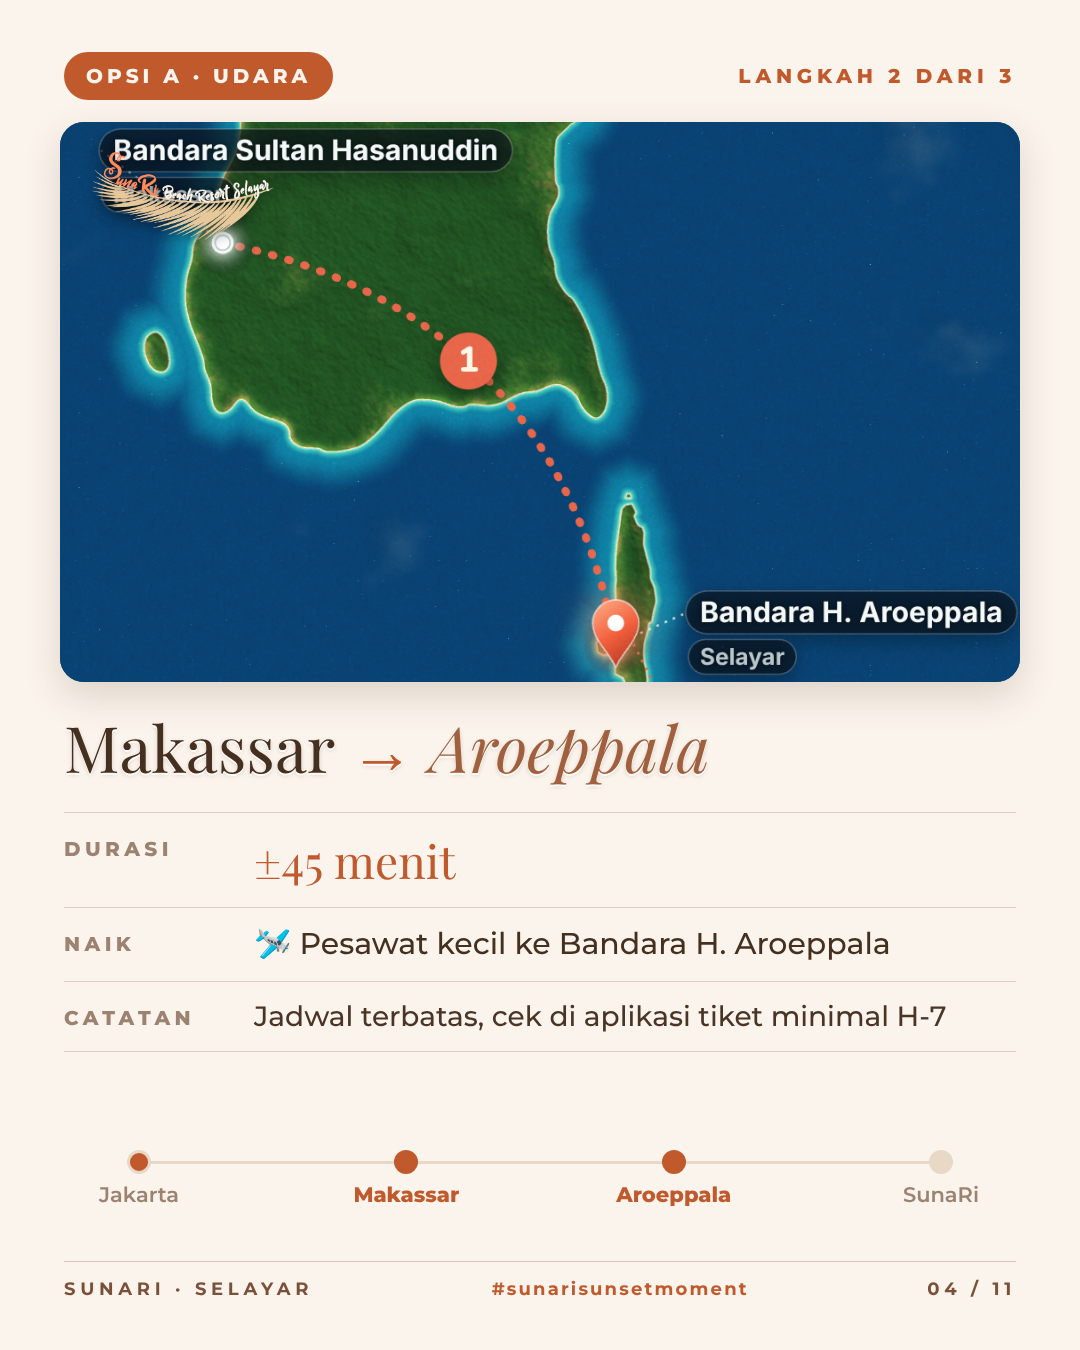
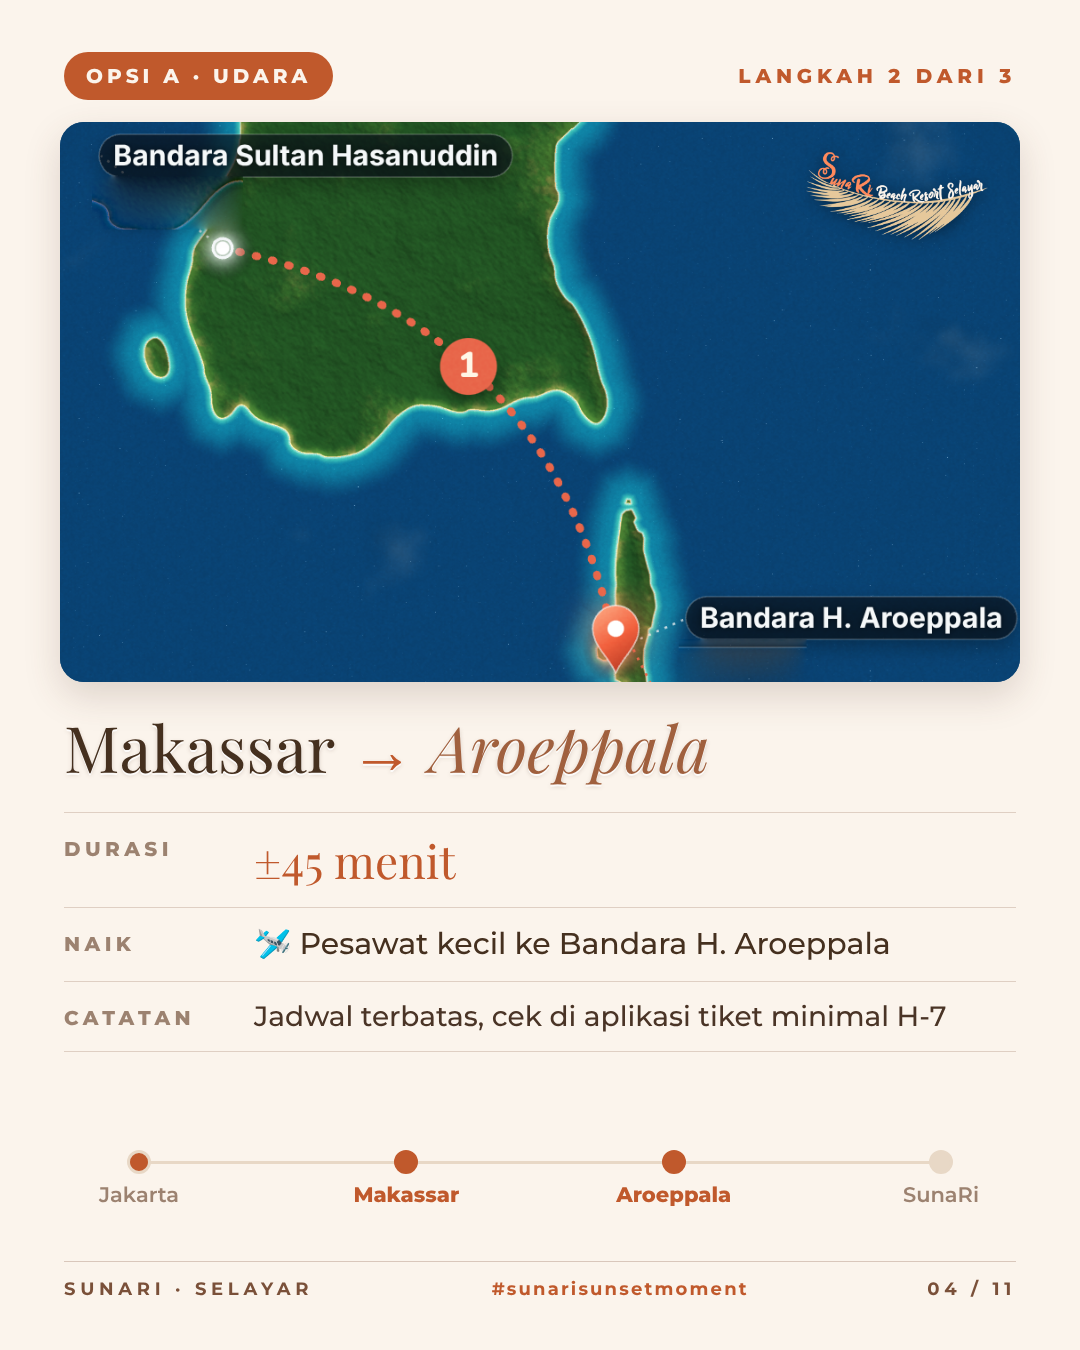
Rute Jakarta: slide 04 map without small sublabels; slide 08 map shows Pamatata
Claude-Session: https://claude.ai/code/session_01AizaiBQtsTmWERPRfEgVV4

diff --git a/social/rute_jakarta.html b/social/rute_jakarta.html
@@ -57,7 +57,7 @@
   <div style="position:absolute;left:64px;right:64px;top:52px;display:flex;justify-content:space-between;align-items:center">
     <span style="background:#C0592C;color:#FBF4EC;font-weight:800;font-size:20px;letter-spacing:.2em;text-transform:uppercase;padding:12px 22px;border-radius:999px">Opsi A · Udara</span>
     <span style="font-weight:800;font-size:20px;letter-spacing:.24em;text-transform:uppercase;color:#C0592C">Langkah 2 dari 3</span></div>
-  <div class="ph" style="top:122px;height:560px;background:#094473"><img src="../assets/maps/04_rute1_pesawat.png" style="object-position:50% 46%" alt=""><img class="lg" src="../assets/logo-sunari-color-dark.png" style="" alt=""></div>
+  <div class="ph" style="top:122px;height:560px;background:#094473"><img src="../assets/maps/04_rute1_pesawat_tanpa-sublabel.png" style="object-position:50% 45.5%" alt=""><img class="lg" src="../assets/logo-sunari-color-dark.png" style="left:auto;right:28px" alt=""></div>
   <div class="emb" style="position:absolute;left:64px;right:64px;top:712px;font-family:'Playfair Display',serif;font-size:64px;line-height:1.1;white-space:nowrap">Makassar <span style="color:#C0592C">→</span> <em style="color:#A0603E">Aroeppala</em></div>
   <div style="position:absolute;left:64px;right:64px;top:812px;border-top:1.5px solid rgba(138,95,72,.25)"><div style="display:flex;padding:16px 0;border-bottom:1.5px solid rgba(138,95,72,.25)"><div style="width:190px;flex:none;font-weight:800;font-size:20px;letter-spacing:.22em;text-transform:uppercase;color:#9C8270;padding-top:8px">Durasi</div><div style="font-size:46px;line-height:1.35;font-family:'Playfair Display',serif;color:#C0592C">±45 menit</div></div><div style="display:flex;padding:16px 0;border-bottom:1.5px solid rgba(138,95,72,.25)"><div style="width:190px;flex:none;font-weight:800;font-size:20px;letter-spacing:.22em;text-transform:uppercase;color:#9C8270;padding-top:8px">Naik</div><div style="font-size:30px;line-height:1.35;">🛩 Pesawat kecil ke Bandara H. Aroeppala</div></div><div style="display:flex;padding:16px 0;border-bottom:1.5px solid rgba(138,95,72,.25)"><div style="width:190px;flex:none;font-weight:800;font-size:20px;letter-spacing:.22em;text-transform:uppercase;color:#9C8270;padding-top:8px">Catatan</div><div style="font-size:28px;line-height:1.35;color:#4A3426">Jadwal terbatas, cek di aplikasi tiket minimal H-7</div></div></div>
   <div style="position:absolute;left:64px;right:64px;top:1150px;display:flex;justify-content:space-between;align-items:flex-start"><div style="position:absolute;left:75px;right:75px;top:11px;height:3px;background:#E8D8C6"></div><div style="text-align:center;flex:none;width:150px;position:relative"><span style="display:inline-block;width:24px;height:24px;border-radius:50%;background:#C0592C;border:3px solid #E8D8C6;vertical-align:middle"></span><div style="font-size:21px;font-weight:600;color:#9C8270;margin-top:8px">Jakarta</div></div><div style="text-align:center;flex:none;width:150px;position:relative"><span style="display:inline-block;width:24px;height:24px;border-radius:50%;background:#C0592C;border:3px solid #C0592C;vertical-align:middle"></span><div style="font-size:21px;font-weight:800;color:#C0592C;margin-top:8px">Makassar</div></div><div style="text-align:center;flex:none;width:150px;position:relative"><span style="display:inline-block;width:24px;height:24px;border-radius:50%;background:#C0592C;border:3px solid #C0592C;vertical-align:middle"></span><div style="font-size:21px;font-weight:800;color:#C0592C;margin-top:8px">Aroeppala</div></div><div style="text-align:center;flex:none;width:150px;position:relative"><span style="display:inline-block;width:24px;height:24px;border-radius:50%;background:#E8D8C6;border:3px solid #E8D8C6;vertical-align:middle"></span><div style="font-size:21px;font-weight:600;color:#9C8270;margin-top:8px">SunaRi</div></div></div><div class="bt"><span>SunaRi · Selayar</span><span class="h">#sunarisunsetmoment</span><span>04 / 11</span></div></div><div class="t" id="rute-05">
@@ -85,7 +85,7 @@
   <div style="position:absolute;left:64px;right:64px;top:52px;display:flex;justify-content:space-between;align-items:center">
     <span style="background:#45301F;color:#FBF4EC;font-weight:800;font-size:20px;letter-spacing:.2em;text-transform:uppercase;padding:12px 22px;border-radius:999px">Semua opsi</span>
     <span style="font-weight:800;font-size:20px;letter-spacing:.24em;text-transform:uppercase;color:#45301F">Langkah terakhir</span></div>
-  <div class="ph" style="top:122px;height:440px"><img src="../assets/maps/07_pulau_selayar.png" style="object-position:50% 50%" alt=""><img class="lg" src="../assets/logo-sunari-color-dark.png" alt=""></div>
+  <div class="ph" style="top:122px;height:440px;background:#094473"><img src="../assets/maps/07_pulau_selayar.png" style="position:absolute;left:150px;top:-300px;width:680px;height:1209px;object-fit:fill" alt=""><div style="position:absolute;inset:0;box-shadow:inset 0 0 50px 34px #094473;pointer-events:none"></div><img class="lg" src="../assets/logo-sunari-color-dark.png" alt=""></div>
   <div class="emb" style="position:absolute;left:64px;right:64px;top:592px;font-family:'Playfair Display',serif;font-size:64px;line-height:1.1">Ke <em style="color:#A0603E">Sunari Beach Resort</em></div>
   <div style="position:absolute;left:64px;right:64px;top:690px;font-weight:800;font-size:19px;letter-spacing:.24em;text-transform:uppercase;color:#9C8270">Dari titik kedatangan · naik mobil</div>
   <div style="position:absolute;left:64px;right:64px;top:730px;border-top:1.5px solid rgba(138,95,72,.25)"><div style="display:flex;align-items:center;padding:20px 0;border-bottom:1.5px solid rgba(138,95,72,.25)"><div style="flex:1"><div style="font-size:30px;font-weight:600">Bandara H. Aroeppala</div><div style="font-size:19px;font-weight:700;letter-spacing:.18em;text-transform:uppercase;color:#9C8270;margin-top:4px">dari Opsi A</div></div><div style="font-family:Playfair Display,serif;font-size:46px;color:#C0592C;white-space:nowrap">±10–15 menit</div></div><div style="display:flex;align-items:center;padding:20px 0;border-bottom:1.5px solid rgba(138,95,72,.25)"><div style="flex:1"><div style="font-size:30px;font-weight:600">Pelabuhan Pamatata</div><div style="font-size:19px;font-weight:700;letter-spacing:.18em;text-transform:uppercase;color:#9C8270;margin-top:4px">dari Opsi B</div></div><div style="font-family:Playfair Display,serif;font-size:46px;color:#C0592C;white-space:nowrap">±1–1,5 jam</div></div><div style="display:flex;align-items:center;padding:20px 0;border-bottom:1.5px solid rgba(138,95,72,.25)"><div style="flex:1"><div style="font-size:30px;font-weight:600">Pelabuhan Benteng</div><div style="font-size:19px;font-weight:700;letter-spacing:.18em;text-transform:uppercase;color:#9C8270;margin-top:4px">dari Opsi C</div></div><div style="font-family:Playfair Display,serif;font-size:46px;color:#C0592C;white-space:nowrap">±20–30 menit</div></div></div>

diff --git a/social/build_rute_jakarta.py b/social/build_rute_jakarta.py
@@ -65,7 +65,7 @@ def step(k, mp, pos, col, opt, lang, frm, to, dur, naik, note, path, active, lgr
   <div style="position:absolute;left:64px;right:64px;top:52px;display:flex;justify-content:space-between;align-items:center">
     <span style="background:{col};color:#FBF4EC;font-weight:800;font-size:20px;letter-spacing:.2em;text-transform:uppercase;padding:12px 22px;border-radius:999px">{opt}</span>
     <span style="font-weight:800;font-size:20px;letter-spacing:.24em;text-transform:uppercase;color:{col}">{lang}</span></div>
-  <div class="ph" style="top:122px;height:560px;background:#094473"><img src="{mp}" style="object-position:{pos}" alt="">{'<div style="position:absolute;inset:0;box-shadow:inset 0 0 50px 34px #094473;pointer-events:none"></div>' if lgr else ''}<img class="lg" src="{LOGO_D}" style="{'left:auto;right:28px' if lgr else ''}" alt=""></div>
+  <div class="ph" style="top:122px;height:560px;background:#094473"><img src="{mp}" style="object-position:{pos}" alt="">{'<div style="position:absolute;inset:0;box-shadow:inset 0 0 50px 34px #094473;pointer-events:none"></div>' if path == "C" else ''}<img class="lg" src="{LOGO_D}" style="{'left:auto;right:28px' if lgr else ''}" alt=""></div>
   <div class="emb" style="position:absolute;left:64px;right:64px;top:712px;font-family:'Playfair Display',serif;font-size:64px;line-height:1.1;white-space:nowrap">{frm} <span style="color:{col}">→</span> <em style="color:#A0603E">{to}</em></div>
   <div style="position:absolute;left:64px;right:64px;top:812px;border-top:1.5px solid rgba(138,95,72,.25)">{rows}</div>
   {tracker(path, active, col)}{foot(k)}</div>'''
@@ -90,8 +90,8 @@ T.append(f'''<div class="t" id="rute-02">
   {foot(2)}</div>''')
 T.append(step(3, M + "08_jakarta_makassar.png", "50% 50%", ALL_COL, "Opsi A &amp; B", "Langkah 1", "Jakarta", "Makassar", "±2 jam 30 menit",
   "✈ Pesawat ke Bandara Sultan Hasanuddin (UPG)", "Banyak pilihan jadwal setiap hari", "semua", [0, 1]))
-T.append(step(4, M + "04_rute1_pesawat.png", "50% 46%", A_COL, "Opsi A · Udara", "Langkah 2 dari 3", "Makassar", "Aroeppala", "±45 menit",
-  "🛩 Pesawat kecil ke Bandara H. Aroeppala", "Jadwal terbatas, cek di aplikasi tiket minimal H-7", "A", [1, 2]))
+T.append(step(4, M + "04_rute1_pesawat_tanpa-sublabel.png", "50% 45.5%", A_COL, "Opsi A · Udara", "Langkah 2 dari 3", "Makassar", "Aroeppala", "±45 menit",
+  "🛩 Pesawat kecil ke Bandara H. Aroeppala", "Jadwal terbatas, cek di aplikasi tiket minimal H-7", "A", [1, 2], lgr=True))
 T.append(step(5, M + "05_rute2_darat_feri.png", "50% 30%", B_COL, "Opsi B · Darat", "Langkah 2 dari 4", "Makassar", "Bira", "±4–5 jam",
   "🚗 Mobil/bus dari Terminal Malengkeri", "Berangkat pagi supaya tidak ketinggalan feri", "B", [1, 2]))
 T.append(step(6, M + "05_rute2_darat_feri.png", "50% 64%", B_COL, "Opsi B · Feri", "Langkah 3 dari 4", "Bira", "Pamatata", "±2 jam",
@@ -104,7 +104,7 @@ T.append(f'''<div class="t" id="rute-08">
   <div style="position:absolute;left:64px;right:64px;top:52px;display:flex;justify-content:space-between;align-items:center">
     <span style="background:{ALL_COL};color:#FBF4EC;font-weight:800;font-size:20px;letter-spacing:.2em;text-transform:uppercase;padding:12px 22px;border-radius:999px">Semua opsi</span>
     <span style="font-weight:800;font-size:20px;letter-spacing:.24em;text-transform:uppercase;color:{ALL_COL}">Langkah terakhir</span></div>
-  <div class="ph" style="top:122px;height:440px"><img src="{M}07_pulau_selayar.png" style="object-position:50% 50%" alt=""><img class="lg" src="{LOGO_D}" alt=""></div>
+  <div class="ph" style="top:122px;height:440px;background:#094473"><img src="{M}07_pulau_selayar.png" style="position:absolute;left:150px;top:-300px;width:680px;height:1209px;object-fit:fill" alt=""><div style="position:absolute;inset:0;box-shadow:inset 0 0 50px 34px #094473;pointer-events:none"></div><img class="lg" src="{LOGO_D}" alt=""></div>
   <div class="emb" style="position:absolute;left:64px;right:64px;top:592px;font-family:'Playfair Display',serif;font-size:64px;line-height:1.1">Ke <em style="color:#A0603E">Sunari Beach Resort</em></div>
   <div style="position:absolute;left:64px;right:64px;top:690px;font-weight:800;font-size:19px;letter-spacing:.24em;text-transform:uppercase;color:#9C8270">Dari titik kedatangan · naik mobil</div>
   <div style="position:absolute;left:64px;right:64px;top:730px;border-top:1.5px solid rgba(138,95,72,.25)">{rows7}</div>
